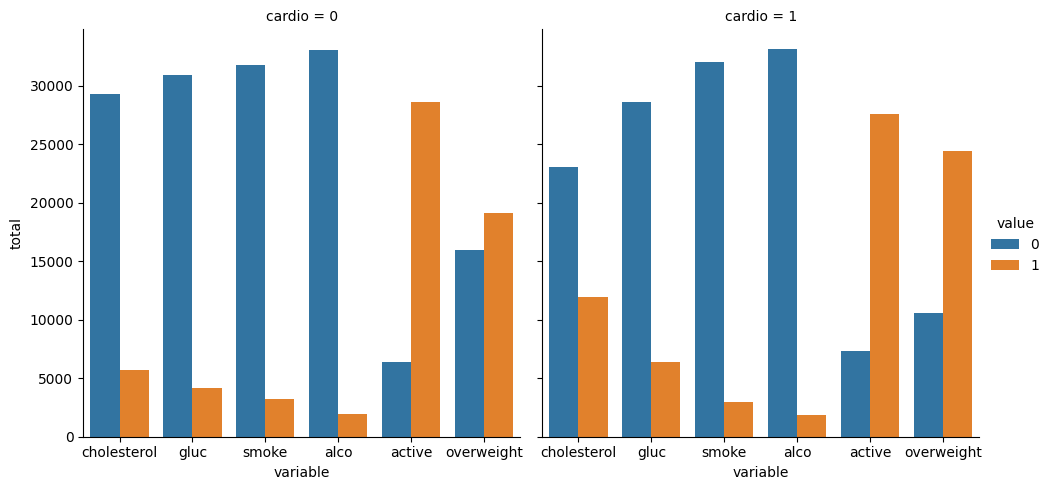
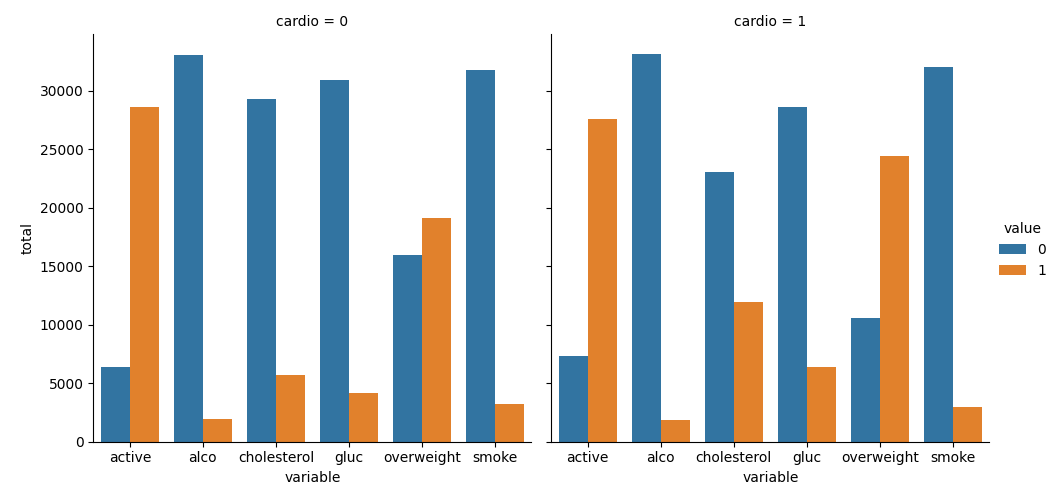
Completed the project

diff --git a/medical_data_visualizer.py b/medical_data_visualizer.py
@@ -22,7 +22,7 @@ df['cholesterol']=df['cholesterol'].apply(lambda x: 1 if x>1 else 0)
 # 4
 def draw_cat_plot():
     # 5
-    df_cat = df.melt(id_vars='cardio',value_vars=['cholesterol','gluc','smoke','alco','active','overweight'])
+    df_cat = df.melt(id_vars='cardio',value_vars=['active','alco','cholesterol','gluc','overweight','smoke'])
     df_cat['total']=0
     variable_list=['cholesterol','gluc','smoke','alco','active','overweight']
     for variables in variable_list:
@@ -41,7 +41,7 @@ def draw_cat_plot():
 
     # 8
     fig = sns.catplot(data=df_cat,x='variable',y='total',col='cardio',hue='value',kind='bar')
-
+    fig=fig.figure
 
     # 9
     fig.savefig('catplot.png')
@@ -51,20 +51,27 @@ def draw_cat_plot():
 # 10
 def draw_heat_map():
     # 11
-    df_heat = None
-
+    df_heat = df[
+        (df['ap_lo']<=df['ap_hi'])&
+        (df['height']>=df['height'].quantile(0.025))&
+        (df['height']<=df['height'].quantile(0.975))&
+        (df['weight']>=df['weight'].quantile(0.025))&
+        (df['weight']<=df['weight'].quantile(0.975))
+    ]
+    df_heat.reset_index(inplace=True)
     # 12
-    corr = None
+    corr = df_heat.corr()
 
     # 13
-    mask = None
+    mask = corr.where(~(np.triu(np.ones(corr.shape)).astype(bool)))
 
 
 
     # 14
-    fig, ax = None
+    fig, ax = plt.subplots(figsize=(12,6))
 
     # 15
+    sns.heatmap(data=mask,annot=True,fmt=".1f",center=0,vmax=0.3,linewidths=0.5,square=True,ax=ax,cbar_kws={'shrink':0.5})
 
 
 
